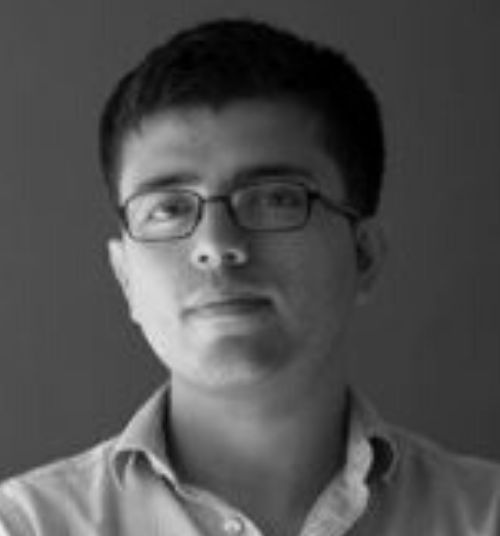
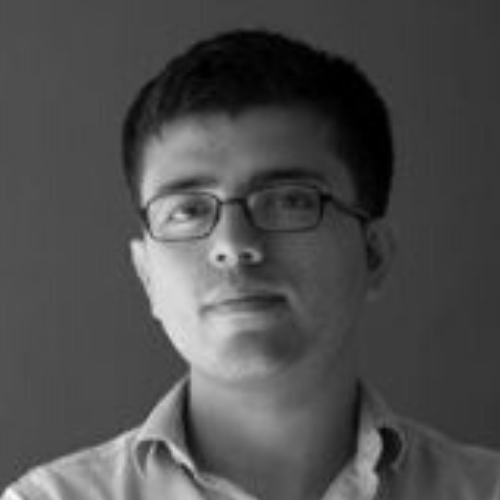
update speakers

diff --git a/_includes/tsw_speakers.html b/_includes/tsw_speakers.html
@@ -77,7 +77,7 @@
 									<img src="assets/tsw/img/tsw-speaker-pena.png" alt="" width="330" />
 								<ul class="speaker-social-list">
 									<li>
-										<a class="icon icon-xs fa-twitter" href="https://twitter.com/aleximenez" target="_blank"></a>
+										<a class="icon icon-xs fa-linkedin" href="https://www.linkedin.com/in/manuela-pe%C3%B1a-g%C3%B3mez-637150119/" target="_blank"></a>
 									</li>
 								</ul>
 							</div>
@@ -110,7 +110,7 @@
 						<div class="speaker">
 							<div class="speaker-img" data-triangle=".speaker-overlay">
 								<div class="speaker-overlay"></div>
-									<img src="assets/tsw/img/tsw-speaker-gonzalez.png" alt="" width="330" />
+									<img src="assets/tsw/img/tsw-speaker-gonzalez2.png" alt="" width="330" />
 								<ul class="speaker-social-list">
 									<li>
 										<a class="icon icon-xs fa-linkedin" href="https://www.linkedin.com/in/fabrizio-gonzalez-maroso/" target="_blank"></a>
@@ -119,6 +119,132 @@
 							</div>
 							<h5 class="speaker-title">Fabrizio González</h5>
 							<p class="speaker-position">Fundador, Tuatara y El Nido Coworking</p>
+						</div>
+					</div>
+				</div>
+				<div class="col-md-6 col-lg-4">
+					<div>
+						<!-- Speaker-->
+						<div class="speaker">
+							<div class="speaker-img" data-triangle=".speaker-overlay">
+								<div class="speaker-overlay"></div>
+									<img src="assets/tsw/img/tsw-speaker-orozco.png" alt="" width="330" />
+								<ul class="speaker-social-list">
+									<li>
+										<a class="icon icon-xs fa-linkedin" href="https://www.linkedin.com/in/manuel-h-orozco-c/" target="_blank"></a>
+									</li>
+								</ul>
+							</div>
+							<h5 class="speaker-title">Manuel Orozco</h5>
+							<p class="speaker-position">Mentor PEMP, Universidad de los Andes</p>
+						</div>
+					</div>
+				</div>
+				<div class="col-md-6 col-lg-4">
+					<div>
+						<!-- Speaker-->
+						<div class="speaker">
+							<div class="speaker-img" data-triangle=".speaker-overlay">
+								<div class="speaker-overlay"></div>
+									<img src="assets/tsw/img/tsw-speaker-rueda.png" alt="" width="330" />
+								<ul class="speaker-social-list">
+									<li>
+										<a class="icon icon-xs fa-linkedin" href="https://www.linkedin.com/in/jessica-rueda-castro-289859b2/" target="_blank"></a>
+									</li>
+								</ul>
+							</div>
+							<h5 class="speaker-title">Jessica Rueda Castro</h5>
+							<p class="speaker-position">Coach y Gerencia Comercial, The Owl's Company</p>
+						</div>
+					</div>
+				</div>
+				<div class="col-md-6 col-lg-4">
+					<div>
+						<!-- Speaker-->
+						<div class="speaker">
+							<div class="speaker-img" data-triangle=".speaker-overlay">
+								<div class="speaker-overlay"></div>
+									<img src="assets/tsw/img/tsw-speaker-borras.png" alt="" width="330" />
+								<ul class="speaker-social-list">
+									<li>
+										<a class="icon icon-xs fa-linkedin" href="https://www.linkedin.com/in/juan-s-bustamante-b-43307271/" target="_blank"></a>
+									</li>
+								</ul>
+							</div>
+							<h5 class="speaker-title">Juan Bustamente Borrás</h5>
+							<p class="speaker-position">Co-fundador, Atalaya Consulting Group</p>
+						</div>
+					</div>
+				</div>
+				<div class="col-md-6 col-lg-4">
+					<div>
+						<!-- Speaker-->
+						<div class="speaker">
+							<div class="speaker-img" data-triangle=".speaker-overlay">
+								<div class="speaker-overlay"></div>
+									<img src="assets/tsw/img/tsw-speaker-bermudez.png" alt="" width="330" />
+								<ul class="speaker-social-list">
+									<li>
+										<a class="icon icon-xs fa-linkedin" href="https://www.linkedin.com/in/laura-berm%C3%BAdez-jurado-b8a823126/" target="_blank"></a>
+									</li>
+								</ul>
+							</div>
+							<h5 class="speaker-title">Laura Bermúdez</h5>
+							<p class="speaker-position">Jefe de Aprendizaje Experiencial, Universidad de La Sabana</p>
+						</div>
+					</div>
+				</div>
+				<div class="col-md-6 col-lg-4">
+					<div>
+						<!-- Speaker-->
+						<div class="speaker">
+							<div class="speaker-img" data-triangle=".speaker-overlay">
+								<div class="speaker-overlay"></div>
+									<img src="assets/tsw/img/tsw-speaker-santiesteban.png" alt="" width="330" />
+								<ul class="speaker-social-list">
+									<li>
+										<a class="icon icon-xs fa-linkedin" href="https://www.linkedin.com/in/francisco-santiesteban-báez-1a1695b8/" target="_blank"></a>
+									</li>
+								</ul>
+							</div>
+							<h5 class="speaker-title">Francisco Santiesteban Báez</h5>
+							<p class="speaker-position">Gestor de Talento, Serendipia Laboratório de Talento Humano</p>
+						</div>
+					</div>
+				</div>
+				<div class="col-md-6 col-lg-4">
+					<div>
+						<!-- Speaker-->
+						<div class="speaker">
+							<div class="speaker-img" data-triangle=".speaker-overlay">
+								<div class="speaker-overlay"></div>
+									<img src="assets/tsw/img/tsw-speaker-ardila.png" alt="" width="330" />
+								<ul class="speaker-social-list">
+									<li>
+										<a class="icon icon-xs fa-linkedin" href="http://linkedin.com/in/mar%C3%ADa-fernanda-ardila-ariza" target="_blank"></a>
+									</li>
+								</ul>
+							</div>
+							<h5 class="speaker-title">María Fernanda Ardila</h5>
+							<p class="speaker-position">Cor. Comunicaciones y Mercadeo Digital, Ajover</p>
+						</div>
+					</div>
+				</div>
+				<div class="col-md-6 col-lg-4">
+					<div>
+						<!-- Speaker-->
+						<div class="speaker">
+							<div class="speaker-img" data-triangle=".speaker-overlay">
+								<div class="speaker-overlay"></div>
+									<img src="assets/tsw/img/tsw-speaker-cubides.png" alt="" width="330" />
+								<ul class="speaker-social-list">
+									<li>
+										<a class="icon icon-xs fa-linkedin" href="https://co.linkedin.com/in/jorgecubides" target="_blank"></a>
+									</li>
+								</ul>
+							</div>
+							<h5 class="speaker-title">Jorge Cubides</h5>
+							<p class="speaker-position">Comunicador Digital Experto en Mercadeo 2.0, CubixMedia</p>
 						</div>
 					</div>
 				</div>
